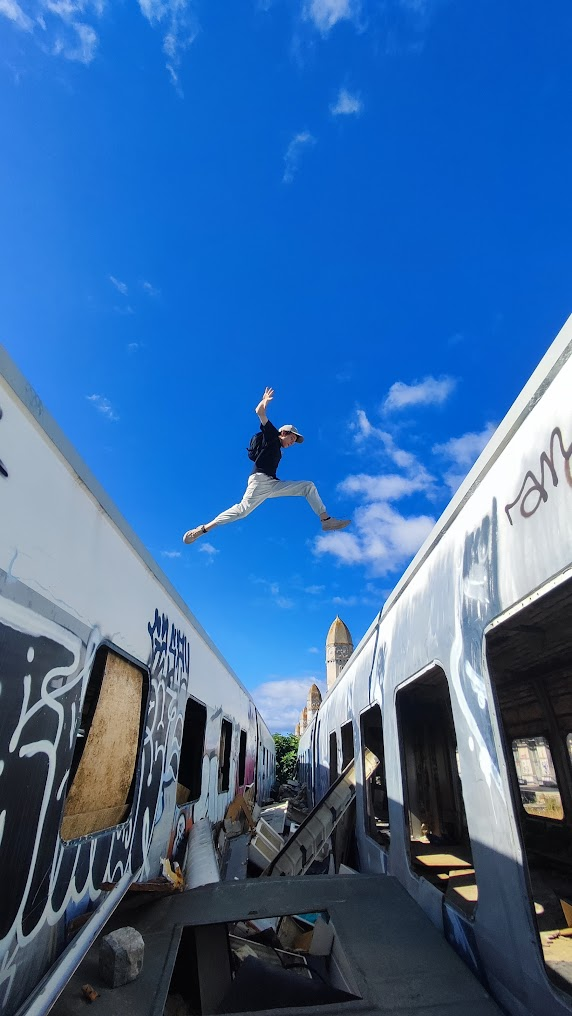
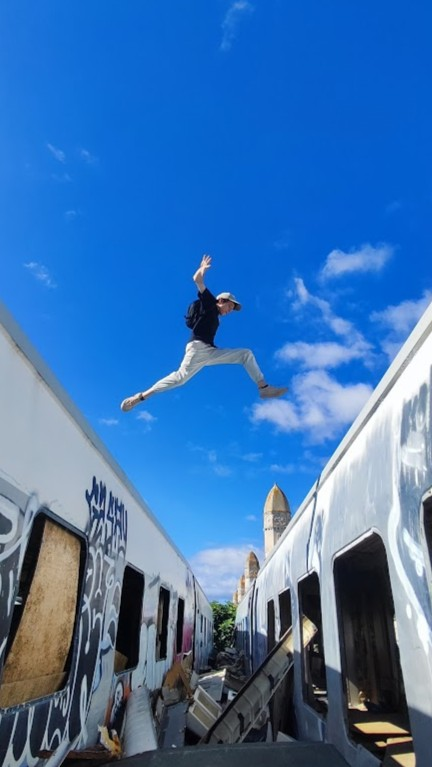
About me adaptabilidade
Adaptabilidade quase completa do about me

diff --git a/css/style.css b/css/style.css
@@ -452,16 +452,7 @@ body.is-resizing .nav__menu {  /*Classe .is-resizing para o body, esta classe é
   transform: rotate(90deg);
 }
 
-@media screen and (max-width: 1150px) {
-  .navAction strong {
-    font-size: 1.5rem;
-  }
 
-  .about-me-text p {
-    padding-right: 0 !important;
-  }
-
-}
 
 /*navigation for desktop*/
 @media screen and (min-width: 992px) {
@@ -966,20 +957,47 @@ body.is-resizing .nav__menu {  /*Classe .is-resizing para o body, esta classe é
   width: 100%;
 }
 
-#portrait-images {
-  display: flex;
-  flex-direction: row;
-  height: 16rem;
-}
-
 .about-me-container {
   display: flex;
   justify-content: space-between;
   align-items: center;
+  height: 22rem;
   gap: var(--padding-XL);
   padding: var(--padding-XL) var(--padding-L);
   border-right: var(--border-line);
   border-left: var(--border-line);
+}
+
+.about-me-image {
+  width: 100%;
+  aspect-ratio: 3 / 4;
+  object-fit: cover;
+}
+
+#portrait-images {
+  display: flex;
+  flex-direction: row;
+  gap: 3rem;
+  height: 100%;
+}
+
+#portrait-images img {
+  border-radius: 0.2rem;
+  border: var(--border-line);
+}
+
+#secondary-1 {
+  transform: scale(1.1) rotate(-1deg) translateX(-0.5rem);
+  aspect-ratio: 3 / 4.5;
+}
+
+#main-portrait {
+  transform: scale(1.5) rotate(2deg);
+}
+
+#secondary-2 {
+  transform: scale(1) rotate(-2deg);
+
 }
 
 .about-me-text {
@@ -987,11 +1005,12 @@ body.is-resizing .nav__menu {  /*Classe .is-resizing para o body, esta classe é
   flex-direction: column;
   gap: var(--padding-L);
   max-width: 30vw;
+  min-width: 390px;
 }
 
-/* .about-me-text p {
-  padding-right: 8rem;
-} */
+.about-me-text p {
+  max-width: 450px;
+}
 
 .title-with-icon {
   display: flex;
@@ -999,11 +1018,7 @@ body.is-resizing .nav__menu {  /*Classe .is-resizing para o body, esta classe é
   gap: var(--padding-L);
 }
 
-.about-me-image {
-  width: 100%;
-  aspect-ratio: 3 / 5;
-  object-fit: cover;
-}
+
 
 .about-info-container {
   display: flex;
@@ -1026,7 +1041,8 @@ body.is-resizing .nav__menu {  /*Classe .is-resizing para o body, esta classe é
 .interests-list {
   display: flex;
   flex-wrap: wrap;
-  width: 30vw;
+
+  max-width: 20rem;
   gap: var(--padding-S);
   margin-top: var(--padding-L);
 }
@@ -1047,7 +1063,7 @@ body.is-resizing .nav__menu {  /*Classe .is-resizing para o body, esta classe é
 .skills-box {
   display: flex;
   flex-direction: row;
-  gap: 8vw;
+  gap: clamp(4vw, 8vw, 1rem);
   border-top: var(--border-line);
   padding-bottom: 5rem;
 }
@@ -1058,24 +1074,29 @@ body.is-resizing .nav__menu {  /*Classe .is-resizing para o body, esta classe é
 
 .soft-skills {
   display: flex;
+  white-space: nowrap;
   flex-direction: column;
   justify-content: space-between;
+  margin-right: 1rem;
 }
 
 .education-box {
   display: flex;
   flex-direction: column;
   flex: 1;
+  min-width: 525px;
 }
 
 .skills-content {
   display: flex;
   flex-direction: column;
   justify-content: space-between;
+  gap: var(--padding-L);
 }
 
 .software-icons {
-  display: flex;
+  display: grid;
+  grid-template-columns: repeat(4, 1fr);
   gap: var(--padding-S);
 }
 
@@ -1264,11 +1285,42 @@ body.is-resizing .nav__menu {  /*Classe .is-resizing para o body, esta classe é
 /*-----------MEDIA QUERIES (MOBILE)-----------*/
 /*--------------------------------------------*/
 
+@media screen and (max-width: 1200px) {
+  #portrait-images {
+    height: 18vw;
+    gap: 2rem;
+  }
+  
+  .about-me-container {
+    padding-right: 1rem;
+  }
+}
+
+@media screen and (max-width: 1150px) {
+  .navAction strong {
+    font-size: 1.5rem;
+  }
+
+  .about-me-text p {
+    padding-right: 0;
+  }
+}
+
+
 /* @media screen and (max-height: 900px) {
   .doodle-text {
    height: 200px;
   }
 } */
+
+@media screen and (max-width: 1100px) {
+  .software-icons {
+    display: inline-grid;  
+    grid-template-columns: repeat(2, auto);
+    gap: var(--padding-S);
+    justify-content: start;
+  }
+}
 
 @media screen and (max-width: 992px) {
   .hero-nav.desktop {display: none;}
@@ -1406,6 +1458,114 @@ body.is-resizing .nav__menu {  /*Classe .is-resizing para o body, esta classe é
   #recommended-project {
     height: 26vw;
   }
+
+  /* ABOUT ME - MOBILE */
+  #secondary-2 {
+    display: none;
+  }
+
+  .about-me-container {
+    padding-right: 4rem;
+  }
+
+  .about-info-container {
+    flex-direction: column;
+  }
+
+  .interests-skills-column {
+    display: flex;
+
+    width: 100%;
+    flex-direction: row;
+    border-right: none;
+    border-bottom: var(--border-line);
+  }
+
+  .interests-box {
+    border-right: var(--border-line);
+    flex: 0.6;
+  }
+  
+  .software-icons {
+    display: flex;
+    flex-wrap: wrap;
+    flex-direction: row;
+    gap: var(--padding-XS);
+  }
+
+  .skills-box {
+    border-top: none;
+    border-right: none;
+    padding-bottom: var(--padding-L);
+    justify-content: space-between;
+  }
+
+  #about-sparkle {
+    transform: translateY(3rem) translateX(-5rem);
+  }
+
+  .skills-content {
+    flex-direction: column;
+  }
+}
+
+@media screen and (max-width: 720px) {
+    /* Processing */
+
+  #defaultCanvas0 {
+    width: 150vw;
+    aspect-ratio: 720 / 400;
+    height: auto;
+    display: block;
+    transform: translateY(2rem) rotate(91deg);
+  }
+
+  .processingCenter {
+    padding: 1rem;
+  }
+
+  /* About me */
+  .about-me-text {
+    display: flex;
+    flex-direction: column;
+    gap: var(--padding-L);
+    max-width: 100%;
+    min-width: 0px;
+  }
+
+  .interests-skills-column {
+    display: flex;
+
+    width: 100%;
+    flex-direction: column;
+    border-right: none;
+    border-bottom: var(--border-line);
+  }
+
+  .interests-box {
+    border-right: none;
+    border-bottom: var(--border-line);
+    flex: 0.6;
+  }
+
+  .education-box {
+    width: 100%;
+  }
+  
+
+  .about-me-container,
+  .about-info-container,
+  .skills-content {
+    flex-direction: column;
+    justify-content: flex-start;
+    align-items: flex-start;
+    height: max-content;
+  }
+
+  .about-me-image {
+    max-width: none;
+    width: 8rem;
+  }
 }
 
 @media screen and (max-width: 576px) {
@@ -1414,11 +1574,36 @@ body.is-resizing .nav__menu {  /*Classe .is-resizing para o body, esta classe é
   }
   #about-container {
     padding: var(--padding-L) var(--padding-L);
+  }
 
+  .about-me-text {
+    max-width: 100%;
+  }
+
+  .about-me-text p {
+    text-wrap: wrap;
+    width: 100%;
   }
 
   #project-dev-container {
     padding: var(--padding-M) var(--padding-L);
+  }
+
+  .education-box {
+    min-width: 300px;
+  }
+
+  .education-item {
+    display: flex;
+    flex-direction: row;
+  }
+
+  .education-item h6{
+    margin-bottom: var(--padding-XS);
+  }
+
+  .education-item img {
+    margin-left: var(--padding-XL);
   }
 
   /* #recommended-project {
@@ -1471,31 +1656,3 @@ body.is-resizing .nav__menu {  /*Classe .is-resizing para o body, esta classe é
   }
 }
 
-@media screen and (max-width: 720px) {
-    /* Processing */
-
-  #defaultCanvas0 {
-    width: 150vw !important;
-    aspect-ratio: 720 / 400;
-    height: auto !important;
-    display: block;
-    transform: translateY(2rem) rotate(91deg);
-  }
-
-  .processingCenter {
-    padding: 1rem;
-  }
-
-  .about-me-container,
-  .about-info-container,
-  .skills-content {
-    flex-direction: column;
-    justify-content: flex-start;
-    align-items: flex-start;
-  }
-
-  .about-me-image {
-    max-width: none;
-    width: 8rem;
-  }
-}

diff --git a/about-me.html b/about-me.html
@@ -69,8 +69,8 @@
             
                             <div class="about-me-text">
                                 <div class="title-with-icon">
-                                    <h1 class="project-hero-title">ABOUT ME</h1>
-                                    <img class="doodle-icon" src="imagens/star.svg" alt="">
+                                    <h1 class="project-hero-title">ABOUT<br>ME</h1>
+                                    <img id="about-sparkle" class="doodle-icon" src="imagens\sparkle.svg" alt="sparkle">
                                 </div>
                                 
                                 <p>
@@ -79,8 +79,8 @@
                                 </p>
                             </div>
                             <div id="portrait-images">
-                                <img id="secondary-1" class="about-me-image" src="imagens\me_portrait.jpeg" alt="Gustavo Camões, the one and only">
-                                <img id="main-portrait"class="about-me-image" src="imagens\me_portrait_active.jpg" alt="Gustavo Camões, the one and only, jumping">
+                                <img id="secondary-1" class="about-me-image" src="imagens\me_portrait_active.jpg" alt="Gustavo Camões, the one and only">
+                                <img id="main-portrait"class="about-me-image" src="imagens\me_portrait.jpeg" alt="Gustavo Camões, the one and only, jumping">
                                 <img id="secondary-2" class="about-me-image" src="imagens\me_portrait3.jpg" alt="Gustavo Camões, the one and only, rocking a cool outfit">
                             </div>
                         </div>
